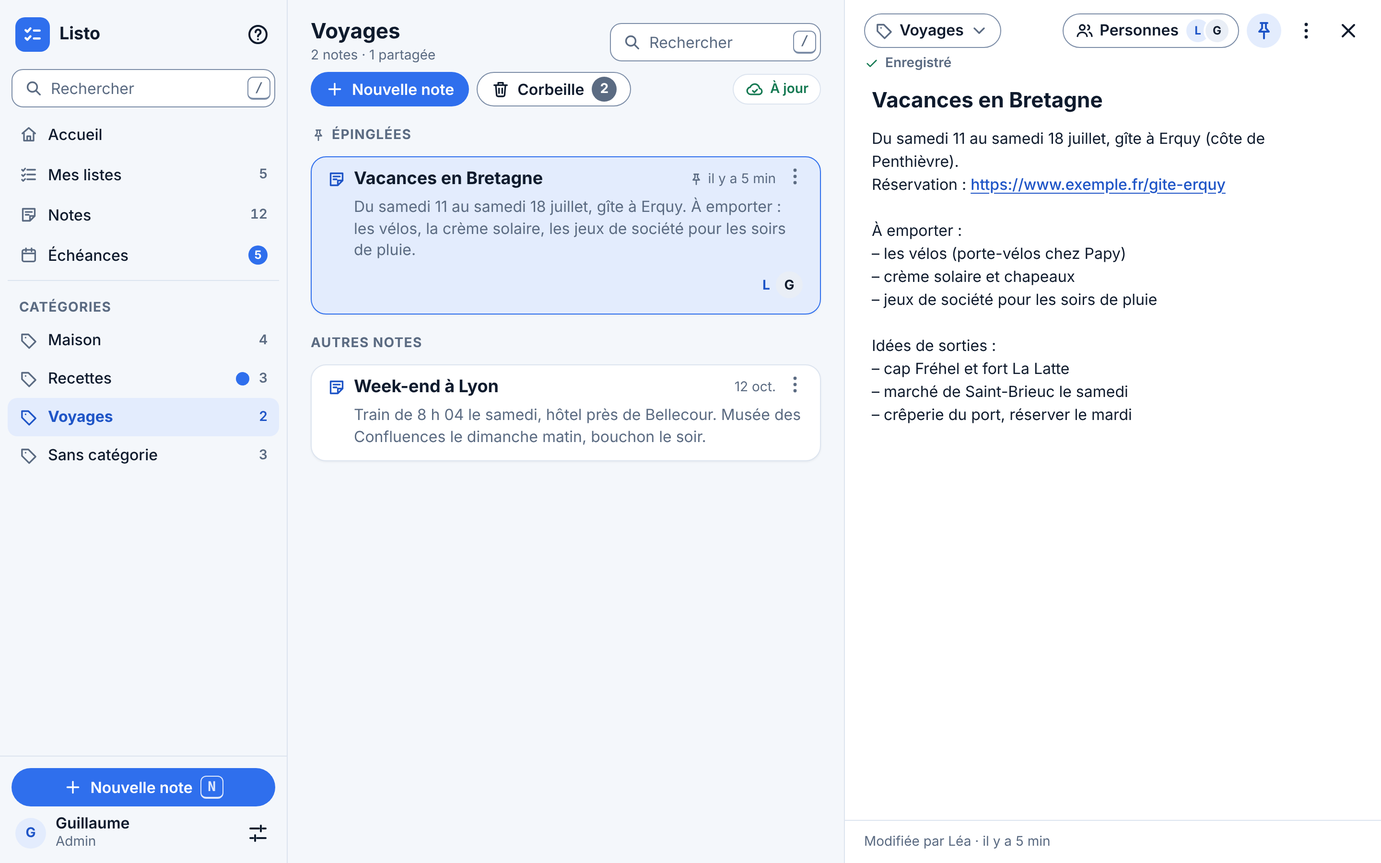
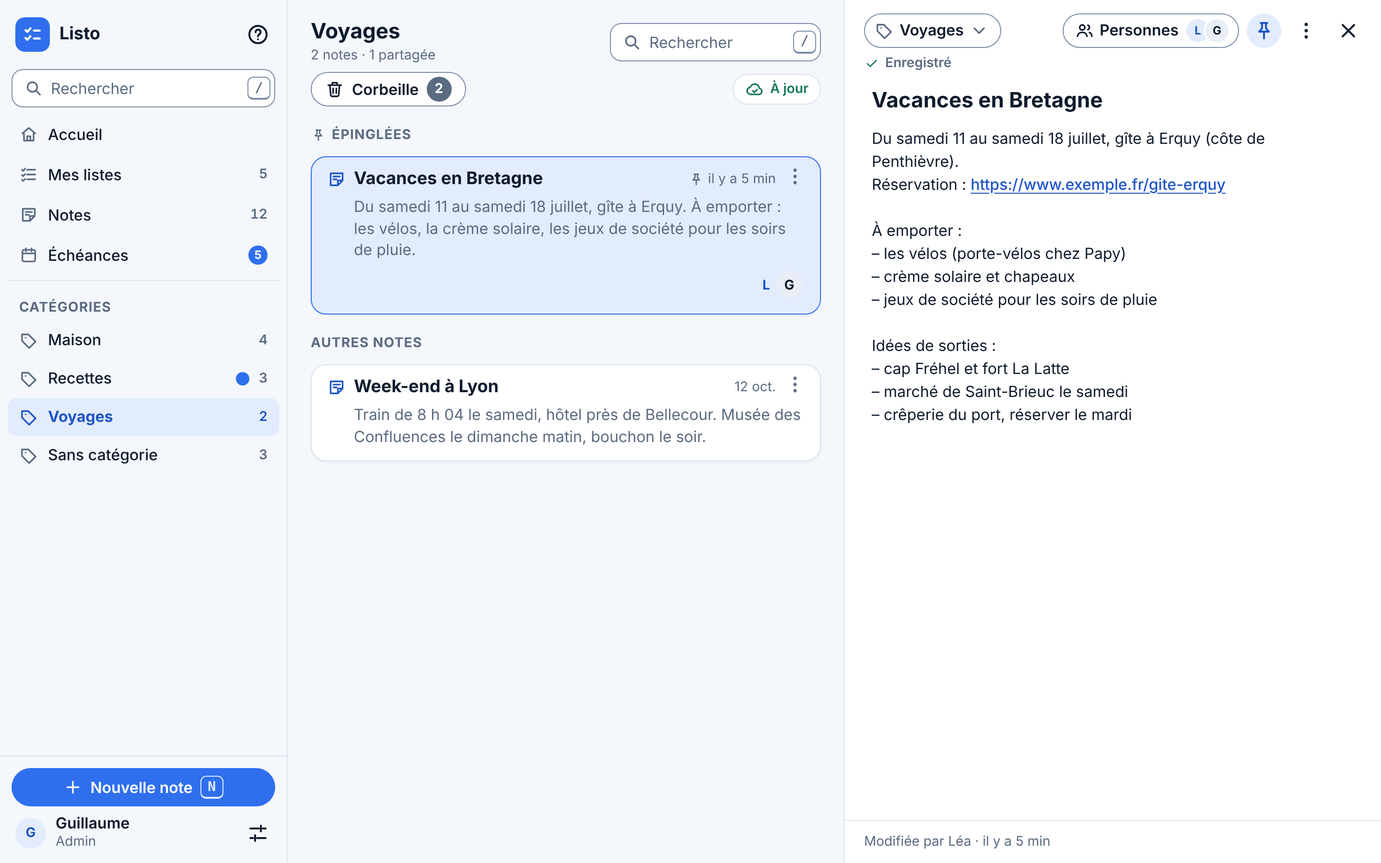
Maquettes : sur ordinateur, un seul bouton « Nouvelle note » (en bas du menu)
Claude-Session: https://claude.ai/code/session_01RoZ4edsPjQcz3aEDFj3cbP

Changed region(s): [[0.2188, 0.0622, 0.4688, 0.1244]]

diff --git a/design/accueil-notes/reference-ordinateur.html b/design/accueil-notes/reference-ordinateur.html
@@ -100,7 +100,7 @@
 </defs></svg>
 <main class="board"><h1 class="board__title">Listo : Accueil et Notes (ordinateur)</h1><p class="board__note">Maquettes du 23 novembre 2026 (cadrage : docs/cadrage-accueil-notes-notifications.md). Chaque écran est capturé seul par capture.mjs (captures/, clair et sombre).</p><div class="board__shots">
 <figure class="shot" id="pc-accueil-1"><figcaption><code>pc-accueil-1</code> · Accueil sur ordinateur</figcaption><div class="desk"><div class="app app--pc"><div class="pc"><aside class="pc-side" aria-label="Navigation"><div class="pc-brand"><a class="pc-brand__home" href="#"><span class="brand-mark" aria-hidden="true"><svg class="icon" aria-hidden="true"><use href="#i-logo"/></svg></span><span class="pc-brand__name">Listo</span><span class="visually-hidden"> Accueil</span></a><button class="icon-btn" type="button" aria-label="Raccourcis clavier"><svg class="icon" aria-hidden="true"><use href="#i-help"/></svg></button></div><label class="searchfield"><svg class="icon icon--sm" aria-hidden="true"><use href="#i-search"/></svg><input class="searchfield__input" type="search" aria-label="Rechercher une liste ou une note" placeholder="Rechercher"><kbd class="keycap">/</kbd></label><div class="pc-side__main"><a class="pc-nav__item" href="#" aria-current="page"><span class="pc-nav__icon"><svg class="icon icon--sm" aria-hidden="true"><use href="#i-home"/></svg></span><span class="pc-nav__name">Accueil</span></a><a class="pc-nav__item" href="#"><span class="pc-nav__icon"><svg class="icon icon--sm" aria-hidden="true"><use href="#i-tasks"/></svg></span><span class="pc-nav__name">Mes listes</span><span class="pc-nav__count">5</span></a><a class="pc-nav__item" href="#"><span class="pc-nav__icon"><svg class="icon icon--sm" aria-hidden="true"><use href="#i-note"/></svg></span><span class="pc-nav__name">Notes</span><span class="pc-nav__count">12</span></a><a class="pc-nav__item" href="#" aria-label="Échéances, 5 tâches en retard ou pour aujourd&#39;hui"><span class="pc-nav__icon"><svg class="icon icon--sm" aria-hidden="true"><use href="#i-calendar"/></svg></span><span class="pc-nav__name">Échéances</span><span class="news-badge" aria-hidden="true">5</span></a></div><nav class="pc-nav" aria-label="Mes listes"><h2 class="pc-nav__group">Courses</h2><ul><li><a class="pc-nav__item" href="#"><span class="pc-nav__icon"><svg class="icon icon--sm" aria-hidden="true"><use href="#i-cart"/></svg></span><span class="pc-nav__name">Courses de la semaine</span><span class="pc-nav__count">5/8</span></a></li><li><a class="pc-nav__item" href="#"><span class="pc-nav__icon"><svg class="icon icon--sm" aria-hidden="true"><use href="#i-cart"/></svg></span><span class="pc-nav__name">Courses du centre-ville</span><span class="pc-nav__count">7/9</span></a></li></ul><h2 class="pc-nav__group">Tâches</h2><ul><li><a class="pc-nav__item" href="#"><span class="pc-nav__icon"><svg class="icon icon--sm" aria-hidden="true"><use href="#i-tasks"/></svg></span><span class="pc-nav__name">Maison</span><span class="pc-nav__count">5/7</span></a></li><li><a class="pc-nav__item" href="#"><span class="pc-nav__icon"><svg class="icon icon--sm" aria-hidden="true"><use href="#i-tasks"/></svg></span><span class="pc-nav__name">Vacances à préparer</span><span class="pc-nav__count">1/5</span></a></li></ul><h2 class="pc-nav__group">Envies</h2><ul><li><a class="pc-nav__item" href="#"><span class="pc-nav__icon"><svg class="icon icon--sm" aria-hidden="true"><use href="#i-gift"/></svg></span><span class="pc-nav__name">Idées cadeaux</span><span class="pc-nav__count">6/9</span></a></li></ul></nav><div class="pc-side__foot"><button class="btn btn--primary btn--block" type="button"><svg class="icon icon--sm" aria-hidden="true"><use href="#i-plus"/></svg>Nouvelle liste<kbd class="keycap">N</kbd></button><div class="pc-user"><span class="avatar">G</span><span class="pc-user__text"><span class="pc-user__name">Guillaume</span><span class="pc-user__role">Admin</span></span><button class="icon-btn" type="button" aria-label="Réglages"><svg class="icon" aria-hidden="true"><use href="#i-sliders"/></svg></button></div></div></aside><main class="pc-main"><div class="pc-col pc-col--wide"><header class="pc-head"><div class="pc-head__main"><h1 class="pc-head__hello">Bonjour Guillaume</h1><p class="pc-head__sub">Lundi 23 novembre</p></div><div class="pc-head__tools"><button class="sync sync--ok" type="button" aria-label="À jour, synchroniser maintenant"><svg class="icon icon--sm" aria-hidden="true"><use href="#i-cloud-ok"/></svg><span class="sync__text">À jour</span></button><button class="icon-btn icon-btn--badge" type="button" aria-label="Notifications, 3 non lues"><svg class="icon" aria-hidden="true"><use href="#i-bell"/></svg><span class="icon-btn__badge" aria-hidden="true">3</span></button></div></header><div class="tiles"><section class="card tile" aria-label="Échéances"><button class="tile__head" type="button"><svg class="icon" aria-hidden="true"><use href="#i-calendar"/></svg><span class="tile__name">Échéances</span></button><ul class="tile__rows"><li><button class="tile__row" type="button" aria-label="En retard, 2 tâches"><span class="tile__label">En retard</span><span class="count count--danger" aria-hidden="true">2</span></button></li><li><button class="tile__row" type="button" aria-label="Aujourd&#39;hui, 3 tâches"><span class="tile__label">Aujourd&#39;hui</span><span class="count count--success" aria-hidden="true">3</span></button></li><li><button class="tile__row" type="button" aria-label="Plus tard, 8 tâches"><span class="tile__label">Plus tard</span><span class="count" aria-hidden="true">8</span></button></li></ul></section><section class="card tile" aria-label="Listes"><button class="tile__head" type="button"><svg class="icon" aria-hidden="true"><use href="#i-tasks"/></svg><span class="tile__name">Listes</span></button><ul class="tile__rows"><li><button class="tile__row" type="button" aria-label="Courses, 2 listes"><span class="tile__label">Courses</span><span class="count" aria-hidden="true">2</span></button></li><li><button class="tile__row" type="button" aria-label="Tâches, 2 listes, nouveautés"><span class="tile__label">Tâches</span><span class="tile__dot" aria-hidden="true"></span><span class="count" aria-hidden="true">2</span></button></li><li><button class="tile__row" type="button" aria-label="Envies, 1 liste"><span class="tile__label">Envies</span><span class="count" aria-hidden="true">1</span></button></li></ul></section><section class="card tile" aria-label="Notes"><button class="tile__head" type="button" aria-label="Notes, 12 notes"><svg class="icon" aria-hidden="true"><use href="#i-note"/></svg><span class="tile__name">Notes</span></button><p class="tile__meta" aria-hidden="true">12 notes</p><ul class="tile__rows"><li><button class="tile__row" type="button" aria-label="Vacances en Bretagne, modifiée par Léa"><span class="tile__label">Vacances en Bretagne</span><span class="tile__dot" aria-hidden="true"></span></button></li><li><button class="tile__row" type="button"><span class="tile__label">Recette crêpes</span></button></li><li><button class="tile__row" type="button"><span class="tile__label">Codes Wi-Fi invités</span></button></li><li><button class="tile__row" type="button"><span class="tile__label">Tailles des enfants</span></button></li><li><button class="tile__row tile__row--add" type="button"><svg class="icon icon--sm" aria-hidden="true"><use href="#i-plus"/></svg><span class="tile__label">Nouvelle note</span></button></li></ul></section><section class="card tile" aria-label="Compte"><button class="tile__head" type="button"><svg class="icon" aria-hidden="true"><use href="#i-user"/></svg><span class="tile__name">Compte</span></button><ul class="tile__rows"><li><button class="tile__row" type="button"><span class="tile__label">Mon compte</span><svg class="icon icon--sm" aria-hidden="true"><use href="#i-chev-r"/></svg></button></li><li><button class="tile__row" type="button" aria-label="Notifications, 3 non lues"><span class="tile__label">Notifications</span><span class="count count--accent" aria-hidden="true">3</span></button></li><li><button class="tile__row" type="button"><span class="tile__label">Réglages</span><svg class="icon icon--sm" aria-hidden="true"><use href="#i-chev-r"/></svg></button></li></ul></section></div></div></main></div></div></div></figure>
-<figure class="shot" id="pc-notes-1"><figcaption><code>pc-notes-1</code> · Notes sur ordinateur</figcaption><div class="desk"><div class="app app--pc"><div class="pc"><aside class="pc-side" aria-label="Navigation"><div class="pc-brand"><a class="pc-brand__home" href="#"><span class="brand-mark" aria-hidden="true"><svg class="icon" aria-hidden="true"><use href="#i-logo"/></svg></span><span class="pc-brand__name">Listo</span><span class="visually-hidden"> Accueil</span></a><button class="icon-btn" type="button" aria-label="Raccourcis clavier"><svg class="icon" aria-hidden="true"><use href="#i-help"/></svg></button></div><label class="searchfield"><svg class="icon icon--sm" aria-hidden="true"><use href="#i-search"/></svg><input class="searchfield__input" type="search" aria-label="Rechercher une liste ou une note" placeholder="Rechercher"><kbd class="keycap">/</kbd></label><div class="pc-side__main"><a class="pc-nav__item" href="#"><span class="pc-nav__icon"><svg class="icon icon--sm" aria-hidden="true"><use href="#i-home"/></svg></span><span class="pc-nav__name">Accueil</span></a><a class="pc-nav__item" href="#"><span class="pc-nav__icon"><svg class="icon icon--sm" aria-hidden="true"><use href="#i-tasks"/></svg></span><span class="pc-nav__name">Mes listes</span><span class="pc-nav__count">5</span></a><a class="pc-nav__item" href="#"><span class="pc-nav__icon"><svg class="icon icon--sm" aria-hidden="true"><use href="#i-note"/></svg></span><span class="pc-nav__name">Notes</span><span class="pc-nav__count">12</span></a><a class="pc-nav__item" href="#" aria-label="Échéances, 5 tâches en retard ou pour aujourd&#39;hui"><span class="pc-nav__icon"><svg class="icon icon--sm" aria-hidden="true"><use href="#i-calendar"/></svg></span><span class="pc-nav__name">Échéances</span><span class="news-badge" aria-hidden="true">5</span></a></div><nav class="pc-nav" aria-label="Catégories des notes"><h2 class="pc-nav__group">Catégories</h2><ul><li><a class="pc-nav__item" href="#" aria-label="Maison, 4 notes"><span class="pc-nav__icon"><svg class="icon icon--sm" aria-hidden="true"><use href="#i-tag"/></svg></span><span class="pc-nav__name">Maison</span><span class="pc-nav__count" aria-hidden="true">4</span></a></li><li><a class="pc-nav__item" href="#" aria-label="Recettes, 3 notes"><span class="pc-nav__icon"><svg class="icon icon--sm" aria-hidden="true"><use href="#i-tag"/></svg></span><span class="pc-nav__name">Recettes</span><span class="news-badge news-badge--dot" role="img" aria-label="Nouveautés"></span><span class="pc-nav__count" aria-hidden="true">3</span></a></li><li><a class="pc-nav__item" href="#" aria-current="page" aria-label="Voyages, 2 notes"><span class="pc-nav__icon"><svg class="icon icon--sm" aria-hidden="true"><use href="#i-tag"/></svg></span><span class="pc-nav__name">Voyages</span><span class="pc-nav__count" aria-hidden="true">2</span></a></li><li><a class="pc-nav__item" href="#" aria-label="Sans catégorie, 3 notes"><span class="pc-nav__icon"><svg class="icon icon--sm" aria-hidden="true"><use href="#i-tag"/></svg></span><span class="pc-nav__name">Sans catégorie</span><span class="pc-nav__count" aria-hidden="true">3</span></a></li></ul></nav><div class="pc-side__foot"><button class="btn btn--primary btn--block" type="button"><svg class="icon icon--sm" aria-hidden="true"><use href="#i-plus"/></svg>Nouvelle note<kbd class="keycap">N</kbd></button><div class="pc-user"><span class="avatar">G</span><span class="pc-user__text"><span class="pc-user__name">Guillaume</span><span class="pc-user__role">Admin</span></span><button class="icon-btn" type="button" aria-label="Réglages"><svg class="icon" aria-hidden="true"><use href="#i-sliders"/></svg></button></div></div></aside><main class="pc-main"><div class="pc-notes"><div class="pc-notes__list"><header class="pc-head"><div class="pc-head__main"><h1 class="pc-head__title">Voyages</h1><p class="pc-head__sub">2 notes · 1 partagée</p></div><label class="searchfield"><svg class="icon icon--sm" aria-hidden="true"><use href="#i-search"/></svg><input class="searchfield__input" type="search" aria-label="Rechercher dans Voyages" placeholder="Rechercher"><kbd class="keycap">/</kbd></label></header><div class="pc-tools"><button class="btn btn--primary btn--sm" type="button"><svg class="icon icon--sm" aria-hidden="true"><use href="#i-plus"/></svg>Nouvelle note</button><button class="btn btn--secondary btn--sm" type="button" aria-label="Corbeille des notes, 2 notes"><svg class="icon icon--sm" aria-hidden="true"><use href="#i-trash"/></svg>Corbeille<span class="count" aria-hidden="true">2</span></button><div class="pc-tools__end"><button class="sync sync--ok" type="button" aria-label="À jour, synchroniser maintenant"><svg class="icon icon--sm" aria-hidden="true"><use href="#i-cloud-ok"/></svg><span class="sync__text">À jour</span></button></div></div><div class="scroll"><div class="pc-notes__cards"><h2 class="notes-section"><svg class="icon icon--xs" aria-hidden="true"><use href="#i-pin"/></svg>Épinglées</h2><article class="card note-card is-selected"><div class="note-card__head"><span class="note-card__icon"><svg class="icon icon--sm" aria-hidden="true"><use href="#i-note"/></svg></span><h3 class="note-card__title"><a href="#" style="color:inherit;text-decoration:none">Vacances en Bretagne</a></h3><span class="note-card__time"><svg class="icon icon--xs" aria-hidden="true"><use href="#i-pin"/></svg><span class="visually-hidden">Épinglée, </span>il y a 5 min</span><button class="icon-btn" type="button" aria-label="Actions de Vacances en Bretagne"><svg class="icon" aria-hidden="true"><use href="#i-more"/></svg></button></div><p class="note-card__excerpt">Du samedi 11 au samedi 18 juillet, gîte à Erquy. À emporter : les vélos, la crème solaire, les jeux de société pour les soirs de pluie.</p><div class="note-card__foot"><div class="note-card__chips"></div><div class="avatars" role="img" aria-label="Partagée avec Léa, Guillaume"><span class="avatar">L</span><span class="avatar avatar--b">G</span></div></div></article><h2 class="notes-section">Autres notes</h2><article class="card note-card"><div class="note-card__head"><span class="note-card__icon"><svg class="icon icon--sm" aria-hidden="true"><use href="#i-note"/></svg></span><h3 class="note-card__title"><a href="#" style="color:inherit;text-decoration:none">Week-end à Lyon</a></h3><span class="note-card__time">12 oct.</span><button class="icon-btn" type="button" aria-label="Actions de Week-end à Lyon"><svg class="icon" aria-hidden="true"><use href="#i-more"/></svg></button></div><p class="note-card__excerpt">Train de 8 h 04 le samedi, hôtel près de Bellecour. Musée des Confluences le dimanche matin, bouchon le soir.</p></article></div></div></div><section class="pc-note" aria-label="Note ouverte : Vacances en Bretagne"><div class="pc-note__bar"><button class="btn btn--sm btn--secondary note-cat" type="button" aria-haspopup="listbox" aria-label="Catégorie : Voyages. Changer"><svg class="icon icon--sm" aria-hidden="true"><use href="#i-tag"/></svg><span class="note-cat__name">Voyages</span><svg class="icon icon--sm" aria-hidden="true"><use href="#i-chev-d"/></svg></button><span class="grow"></span><button class="btn btn--sm btn--secondary note-people" type="button" aria-haspopup="dialog" aria-label="Personnes : Léa (propriétaire) et vous, peut modifier"><svg class="icon icon--sm" aria-hidden="true"><use href="#i-users"/></svg>Personnes<span class="avatars" aria-hidden="true"><span class="avatar">L</span><span class="avatar avatar--b">G</span></span></button><button class="icon-btn" type="button" aria-label="Désépingler" aria-pressed="true"><svg class="icon" aria-hidden="true"><use href="#i-pin"/></svg></button><button class="icon-btn" type="button" aria-label="Plus d&#39;actions" aria-haspopup="menu"><svg class="icon" aria-hidden="true"><use href="#i-more"/></svg></button><button class="icon-btn" type="button" aria-label="Fermer la note"><svg class="icon" aria-hidden="true"><use href="#i-close"/></svg></button></div><p class="note-status note-status--ok" role="status"><svg class="icon icon--xs" aria-hidden="true"><use href="#i-check"/></svg>Enregistré</p><div class="note-edit"><input class="note-edit__title" type="text" aria-label="Titre" value="Vacances en Bretagne"><div class="note-edit__body" role="textbox" aria-multiline="true" aria-label="Texte de la note">Du samedi 11 au samedi 18 juillet, gîte à Erquy (côte de Penthièvre).
+<figure class="shot" id="pc-notes-1"><figcaption><code>pc-notes-1</code> · Notes sur ordinateur</figcaption><div class="desk"><div class="app app--pc"><div class="pc"><aside class="pc-side" aria-label="Navigation"><div class="pc-brand"><a class="pc-brand__home" href="#"><span class="brand-mark" aria-hidden="true"><svg class="icon" aria-hidden="true"><use href="#i-logo"/></svg></span><span class="pc-brand__name">Listo</span><span class="visually-hidden"> Accueil</span></a><button class="icon-btn" type="button" aria-label="Raccourcis clavier"><svg class="icon" aria-hidden="true"><use href="#i-help"/></svg></button></div><label class="searchfield"><svg class="icon icon--sm" aria-hidden="true"><use href="#i-search"/></svg><input class="searchfield__input" type="search" aria-label="Rechercher une liste ou une note" placeholder="Rechercher"><kbd class="keycap">/</kbd></label><div class="pc-side__main"><a class="pc-nav__item" href="#"><span class="pc-nav__icon"><svg class="icon icon--sm" aria-hidden="true"><use href="#i-home"/></svg></span><span class="pc-nav__name">Accueil</span></a><a class="pc-nav__item" href="#"><span class="pc-nav__icon"><svg class="icon icon--sm" aria-hidden="true"><use href="#i-tasks"/></svg></span><span class="pc-nav__name">Mes listes</span><span class="pc-nav__count">5</span></a><a class="pc-nav__item" href="#"><span class="pc-nav__icon"><svg class="icon icon--sm" aria-hidden="true"><use href="#i-note"/></svg></span><span class="pc-nav__name">Notes</span><span class="pc-nav__count">12</span></a><a class="pc-nav__item" href="#" aria-label="Échéances, 5 tâches en retard ou pour aujourd&#39;hui"><span class="pc-nav__icon"><svg class="icon icon--sm" aria-hidden="true"><use href="#i-calendar"/></svg></span><span class="pc-nav__name">Échéances</span><span class="news-badge" aria-hidden="true">5</span></a></div><nav class="pc-nav" aria-label="Catégories des notes"><h2 class="pc-nav__group">Catégories</h2><ul><li><a class="pc-nav__item" href="#" aria-label="Maison, 4 notes"><span class="pc-nav__icon"><svg class="icon icon--sm" aria-hidden="true"><use href="#i-tag"/></svg></span><span class="pc-nav__name">Maison</span><span class="pc-nav__count" aria-hidden="true">4</span></a></li><li><a class="pc-nav__item" href="#" aria-label="Recettes, 3 notes"><span class="pc-nav__icon"><svg class="icon icon--sm" aria-hidden="true"><use href="#i-tag"/></svg></span><span class="pc-nav__name">Recettes</span><span class="news-badge news-badge--dot" role="img" aria-label="Nouveautés"></span><span class="pc-nav__count" aria-hidden="true">3</span></a></li><li><a class="pc-nav__item" href="#" aria-current="page" aria-label="Voyages, 2 notes"><span class="pc-nav__icon"><svg class="icon icon--sm" aria-hidden="true"><use href="#i-tag"/></svg></span><span class="pc-nav__name">Voyages</span><span class="pc-nav__count" aria-hidden="true">2</span></a></li><li><a class="pc-nav__item" href="#" aria-label="Sans catégorie, 3 notes"><span class="pc-nav__icon"><svg class="icon icon--sm" aria-hidden="true"><use href="#i-tag"/></svg></span><span class="pc-nav__name">Sans catégorie</span><span class="pc-nav__count" aria-hidden="true">3</span></a></li></ul></nav><div class="pc-side__foot"><button class="btn btn--primary btn--block" type="button"><svg class="icon icon--sm" aria-hidden="true"><use href="#i-plus"/></svg>Nouvelle note<kbd class="keycap">N</kbd></button><div class="pc-user"><span class="avatar">G</span><span class="pc-user__text"><span class="pc-user__name">Guillaume</span><span class="pc-user__role">Admin</span></span><button class="icon-btn" type="button" aria-label="Réglages"><svg class="icon" aria-hidden="true"><use href="#i-sliders"/></svg></button></div></div></aside><main class="pc-main"><div class="pc-notes"><div class="pc-notes__list"><header class="pc-head"><div class="pc-head__main"><h1 class="pc-head__title">Voyages</h1><p class="pc-head__sub">2 notes · 1 partagée</p></div><label class="searchfield"><svg class="icon icon--sm" aria-hidden="true"><use href="#i-search"/></svg><input class="searchfield__input" type="search" aria-label="Rechercher dans Voyages" placeholder="Rechercher"><kbd class="keycap">/</kbd></label></header><div class="pc-tools"><button class="btn btn--secondary btn--sm" type="button" aria-label="Corbeille des notes, 2 notes"><svg class="icon icon--sm" aria-hidden="true"><use href="#i-trash"/></svg>Corbeille<span class="count" aria-hidden="true">2</span></button><div class="pc-tools__end"><button class="sync sync--ok" type="button" aria-label="À jour, synchroniser maintenant"><svg class="icon icon--sm" aria-hidden="true"><use href="#i-cloud-ok"/></svg><span class="sync__text">À jour</span></button></div></div><div class="scroll"><div class="pc-notes__cards"><h2 class="notes-section"><svg class="icon icon--xs" aria-hidden="true"><use href="#i-pin"/></svg>Épinglées</h2><article class="card note-card is-selected"><div class="note-card__head"><span class="note-card__icon"><svg class="icon icon--sm" aria-hidden="true"><use href="#i-note"/></svg></span><h3 class="note-card__title"><a href="#" style="color:inherit;text-decoration:none">Vacances en Bretagne</a></h3><span class="note-card__time"><svg class="icon icon--xs" aria-hidden="true"><use href="#i-pin"/></svg><span class="visually-hidden">Épinglée, </span>il y a 5 min</span><button class="icon-btn" type="button" aria-label="Actions de Vacances en Bretagne"><svg class="icon" aria-hidden="true"><use href="#i-more"/></svg></button></div><p class="note-card__excerpt">Du samedi 11 au samedi 18 juillet, gîte à Erquy. À emporter : les vélos, la crème solaire, les jeux de société pour les soirs de pluie.</p><div class="note-card__foot"><div class="note-card__chips"></div><div class="avatars" role="img" aria-label="Partagée avec Léa, Guillaume"><span class="avatar">L</span><span class="avatar avatar--b">G</span></div></div></article><h2 class="notes-section">Autres notes</h2><article class="card note-card"><div class="note-card__head"><span class="note-card__icon"><svg class="icon icon--sm" aria-hidden="true"><use href="#i-note"/></svg></span><h3 class="note-card__title"><a href="#" style="color:inherit;text-decoration:none">Week-end à Lyon</a></h3><span class="note-card__time">12 oct.</span><button class="icon-btn" type="button" aria-label="Actions de Week-end à Lyon"><svg class="icon" aria-hidden="true"><use href="#i-more"/></svg></button></div><p class="note-card__excerpt">Train de 8 h 04 le samedi, hôtel près de Bellecour. Musée des Confluences le dimanche matin, bouchon le soir.</p></article></div></div></div><section class="pc-note" aria-label="Note ouverte : Vacances en Bretagne"><div class="pc-note__bar"><button class="btn btn--sm btn--secondary note-cat" type="button" aria-haspopup="listbox" aria-label="Catégorie : Voyages. Changer"><svg class="icon icon--sm" aria-hidden="true"><use href="#i-tag"/></svg><span class="note-cat__name">Voyages</span><svg class="icon icon--sm" aria-hidden="true"><use href="#i-chev-d"/></svg></button><span class="grow"></span><button class="btn btn--sm btn--secondary note-people" type="button" aria-haspopup="dialog" aria-label="Personnes : Léa (propriétaire) et vous, peut modifier"><svg class="icon icon--sm" aria-hidden="true"><use href="#i-users"/></svg>Personnes<span class="avatars" aria-hidden="true"><span class="avatar">L</span><span class="avatar avatar--b">G</span></span></button><button class="icon-btn" type="button" aria-label="Désépingler" aria-pressed="true"><svg class="icon" aria-hidden="true"><use href="#i-pin"/></svg></button><button class="icon-btn" type="button" aria-label="Plus d&#39;actions" aria-haspopup="menu"><svg class="icon" aria-hidden="true"><use href="#i-more"/></svg></button><button class="icon-btn" type="button" aria-label="Fermer la note"><svg class="icon" aria-hidden="true"><use href="#i-close"/></svg></button></div><p class="note-status note-status--ok" role="status"><svg class="icon icon--xs" aria-hidden="true"><use href="#i-check"/></svg>Enregistré</p><div class="note-edit"><input class="note-edit__title" type="text" aria-label="Titre" value="Vacances en Bretagne"><div class="note-edit__body" role="textbox" aria-multiline="true" aria-label="Texte de la note">Du samedi 11 au samedi 18 juillet, gîte à Erquy (côte de Penthièvre).
 Réservation : <a class="note-link" href="#" target="_blank" rel="noopener noreferrer">https://www.exemple.fr/gite-erquy</a>
 
 À emporter :

diff --git a/docs/cadrage-accueil-notes-notifications.md b/docs/cadrage-accueil-notes-notifications.md
@@ -28,7 +28,7 @@ Document de conception rédigé le 23 novembre 2026, à partir des demandes et d
 - **Téléphone** : le bandeau du bas en verre (décision du 11 novembre 2026) passe de trois à cinq boutons, toujours à la même place, toute la largeur : **Accueil** (icône maison), **Listes** (« Mes listes » jusqu'ici), **Notes** (nouvelle icône « note »), **Échéances**, **Réglages**. Libellés courts sous chaque icône, zones tactiles d'au moins 44 px, bouton de l'écran ouvert mis en avant comme aujourd'hui. **Pas de bandeau sur l'Accueil** (choix du propriétaire du 23 novembre 2026) : ses tuiles mènent déjà à tout (Listes, Notes, Échéances, Notifications, Mon compte, Réglages) ; on revient à l'Accueil par le bouton « Accueil » du bandeau des autres écrans.
 - **Premier écran** : l'Accueil (`#/accueil`) à l'ouverture de l'application et après la connexion ; une adresse vide ou inconnue mène à l'Accueil (aujourd'hui « Mes listes »). Un lien direct (liste, note, autorisation d'un assistant IA, notification touchée) ouvre toujours directement son écran.
 - **Loupe ronde** : sur Listes, Notes et Échéances comme aujourd'hui pour les écrans qui ont une recherche ; jamais sur l'Accueil (rien à chercher) ni sur la page Notifications.
-- **Ordinateur** (à partir de 1 024 px) : le menu de gauche gagne « Accueil » en tête, puis « Mes listes » (groupes et compteurs inchangés), « Notes » (une seule entrée avec le nombre de notes), « Échéances ». **Dessous, le menu suit l'écran** (choix du propriétaire du 23 novembre 2026) : sur les écrans des notes (Notes, une note, corbeille des notes), seulement « Catégories » : mes catégories avec leur nombre de notes (« Sans catégorie » en dernier, point des nouveautés), et le bouton du bas devient « Nouvelle note » (touche N) ; sur tous les autres écrans (Accueil, Mes listes, une liste, Échéances, Réglages…), les listes groupées par type comme aujourd'hui, avec « Nouvelle liste ». Toucher une catégorie montre au centre **seulement les notes de cette catégorie** (titre : son nom, « 2 notes · 1 partagée » ; la recherche cherche dans cette catégorie ; une nouvelle note y est rangée) ; l'entrée fixe « Notes » montre toutes les notes. **Pas de pastilles de catégories au-dessus des cartes sur ordinateur** (elles restent sur le téléphone). La cloche des notifications est dans l'en-tête de l'Accueil, comme sur le téléphone. Le téléphone ne change pas au-delà de ce qui est décrit ici (captures avant/après expliquées).
+- **Ordinateur** (à partir de 1 024 px) : le menu de gauche gagne « Accueil » en tête, puis « Mes listes » (groupes et compteurs inchangés), « Notes » (une seule entrée avec le nombre de notes), « Échéances ». **Dessous, le menu suit l'écran** (choix du propriétaire du 23 novembre 2026) : sur les écrans des notes (Notes, une note, corbeille des notes), seulement « Catégories » : mes catégories avec leur nombre de notes (« Sans catégorie » en dernier, point des nouveautés), et le bouton du bas devient « Nouvelle note » (touche N) ; sur tous les autres écrans (Accueil, Mes listes, une liste, Échéances, Réglages…), les listes groupées par type comme aujourd'hui, avec « Nouvelle liste ». Toucher une catégorie montre au centre **seulement les notes de cette catégorie** (titre : son nom, « 2 notes · 1 partagée » ; la recherche cherche dans cette catégorie ; une nouvelle note y est rangée) ; l'entrée fixe « Notes » montre toutes les notes. **Pas de pastilles de catégories au-dessus des cartes sur ordinateur** (elles restent sur le téléphone), ni de second bouton « Nouvelle note » en haut : celui du bas du menu suffit. La cloche des notifications est dans l'en-tête de l'Accueil, comme sur le téléphone. Le téléphone ne change pas au-delà de ce qui est décrit ici (captures avant/après expliquées).
 
 ## 2. Accueil
 

diff --git a/design/accueil-notes/README.md b/design/accueil-notes/README.md
@@ -23,7 +23,7 @@ Maquettes du 23 novembre 2026 pour le cadrage `docs/cadrage-accueil-notes-notifi
 - `note-2` : conflit : « À vérifier », bandeau « Léa vient de modifier cette note », choix Garder la mienne / Prendre la leur / Garder les deux, « Décider plus tard ».
 - `notifications-1` : Aujourd'hui, Hier, Samedi 21 novembre ; trois non lues (point, texte en gras, icône bleue) ; « Tout marquer comme lu » ; une ligne glissée qui montre « Effacer » ; « Tout effacer » en bas.
 - `notifications-2` : « Aucune notification ».
-- `pc-accueil-1`, `pc-notes-1` : menu de gauche avec Accueil, Mes listes, Notes, Échéances ; dessous, le menu suit l'écran (choix du propriétaire du 23 novembre 2026) : les listes groupées par type et « Nouvelle liste » sur l'Accueil, les catégories et leur nombre et « Nouvelle note » sur l'écran Notes, où le centre ne montre que les notes de la catégorie choisie (« Voyages »), sans pastilles de catégories (elles restent sur le téléphone) ; tuiles sur trois colonnes ; notes à gauche et note ouverte à droite.
+- `pc-accueil-1`, `pc-notes-1` : menu de gauche avec Accueil, Mes listes, Notes, Échéances ; dessous, le menu suit l'écran (choix du propriétaire du 23 novembre 2026) : les listes groupées par type et « Nouvelle liste » sur l'Accueil, les catégories et leur nombre et « Nouvelle note » sur l'écran Notes, où le centre ne montre que les notes de la catégorie choisie (« Voyages »), sans pastilles de catégories (elles restent sur le téléphone) ni bouton « Nouvelle note » en haut (celui du bas du menu suffit) ; tuiles sur trois colonnes ; notes à gauche et note ouverte à droite.
 
 ## Nouveaux composants
 
